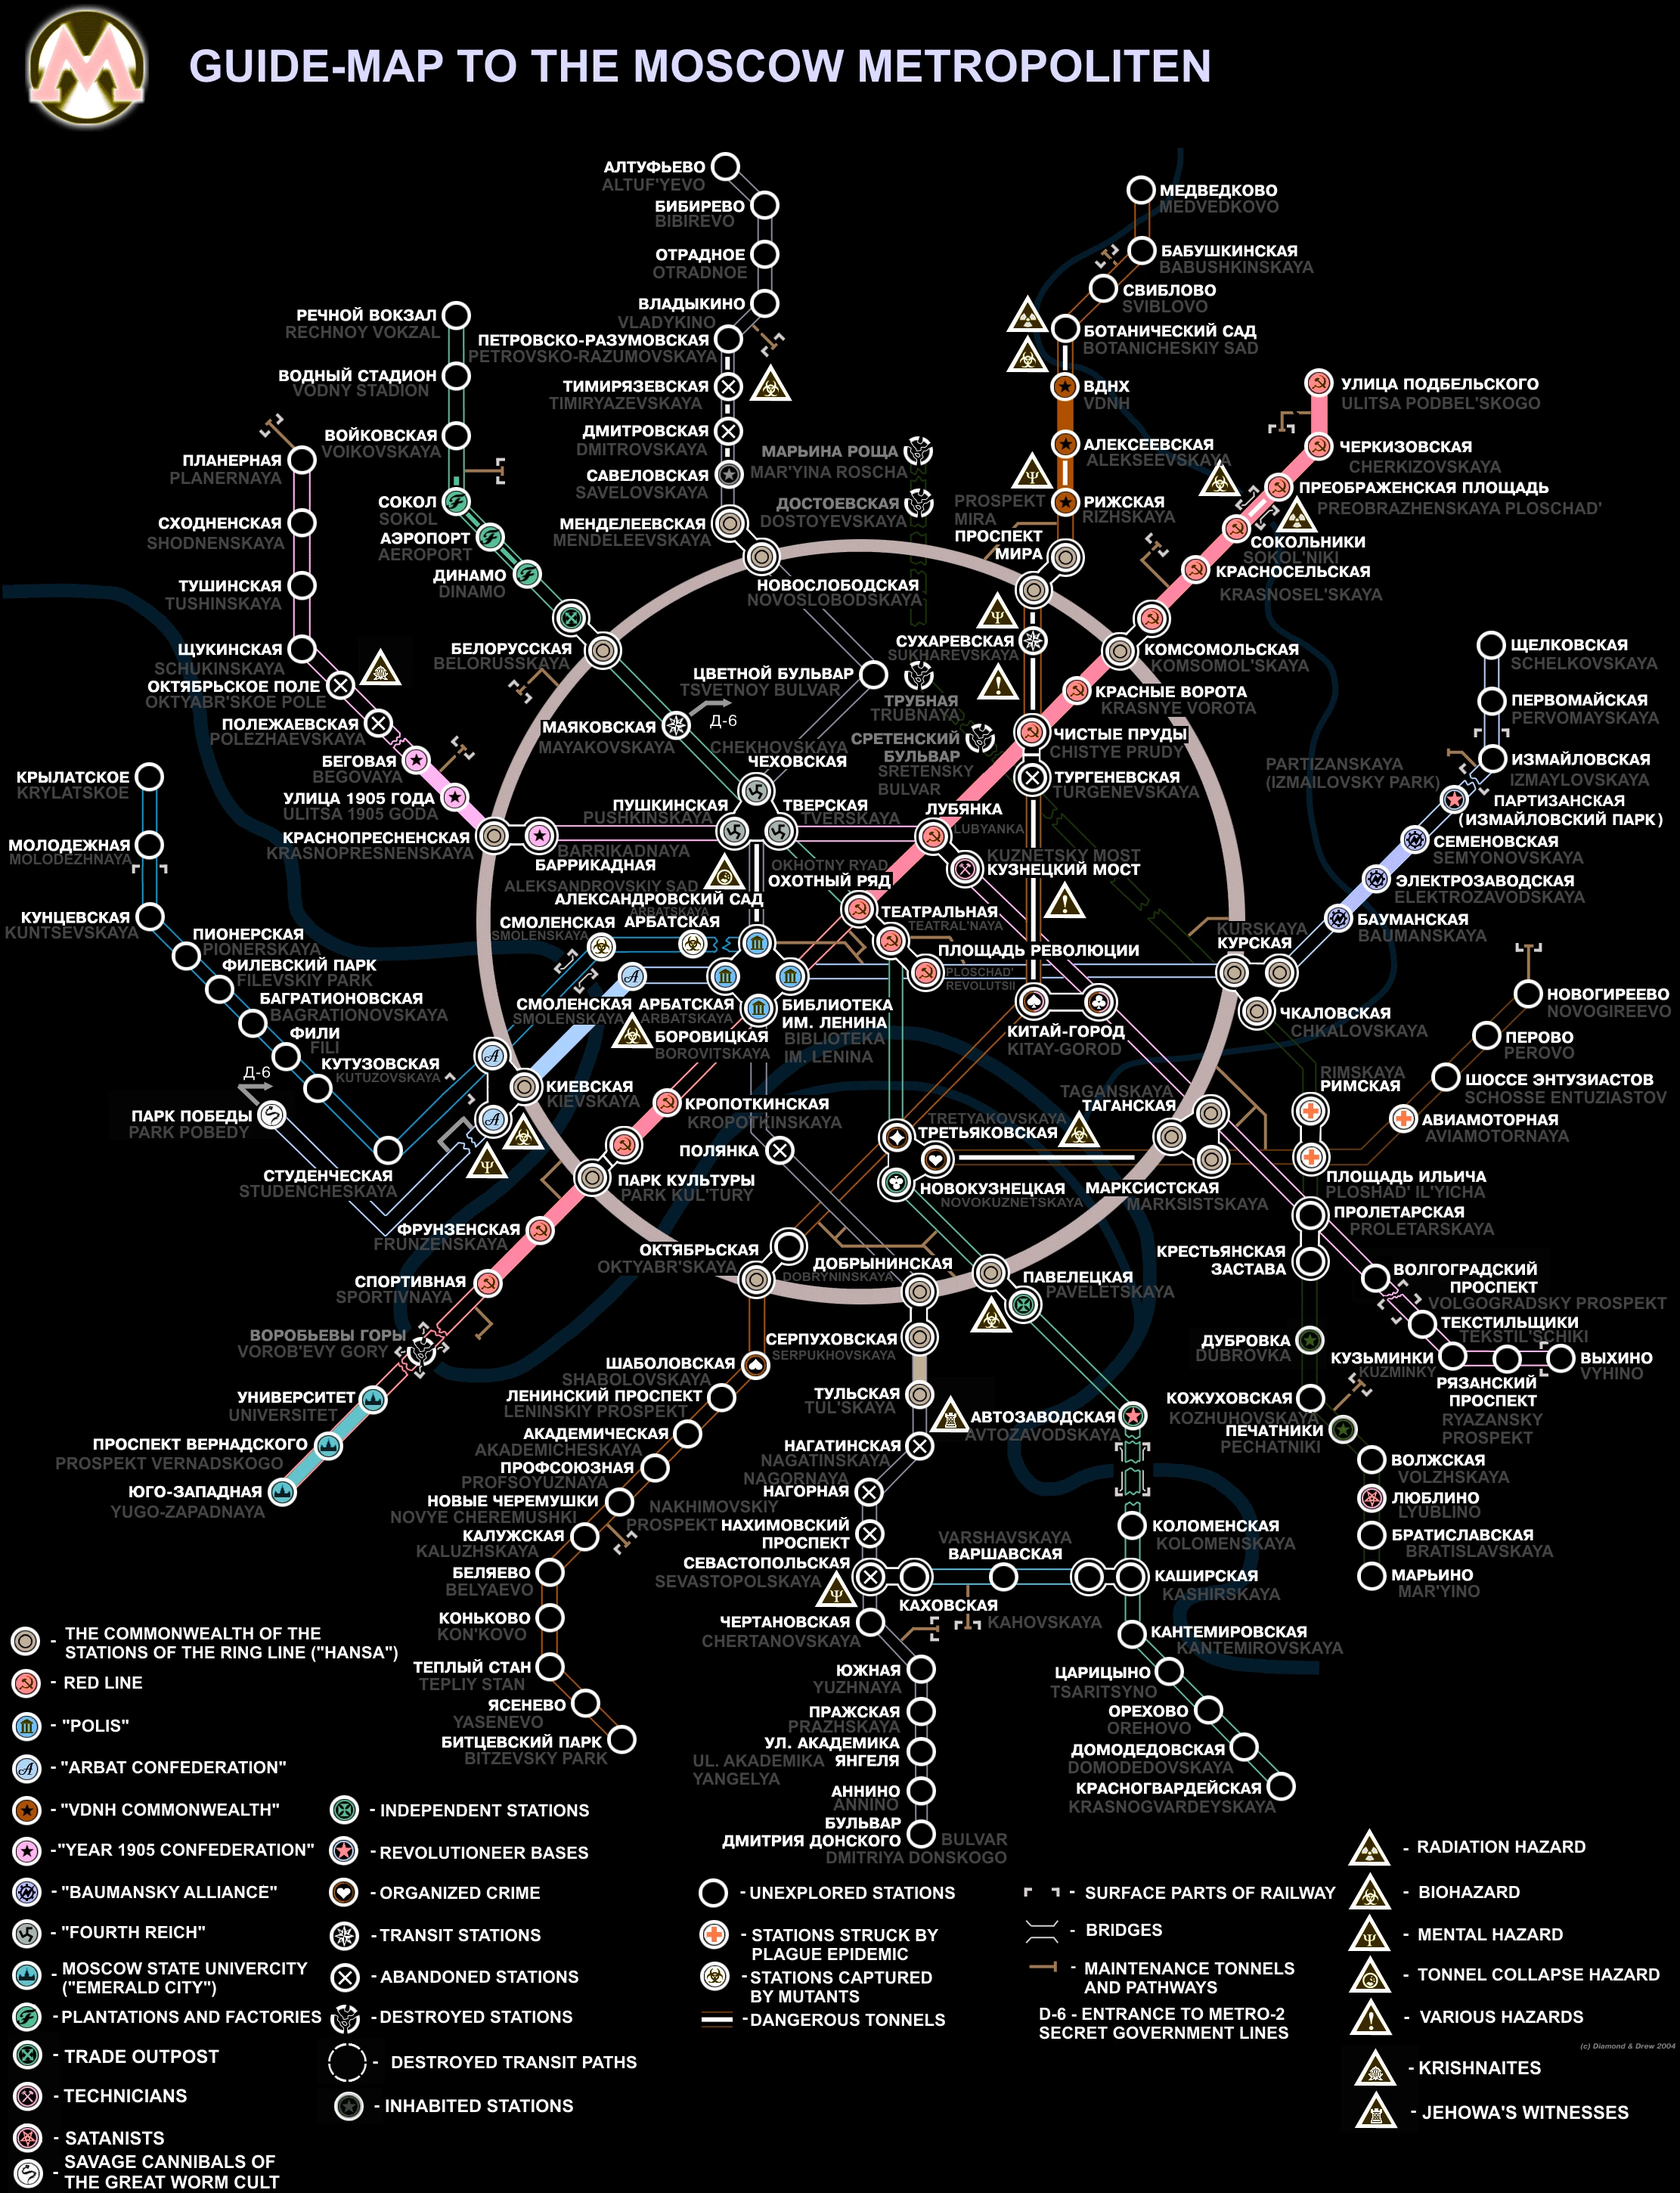
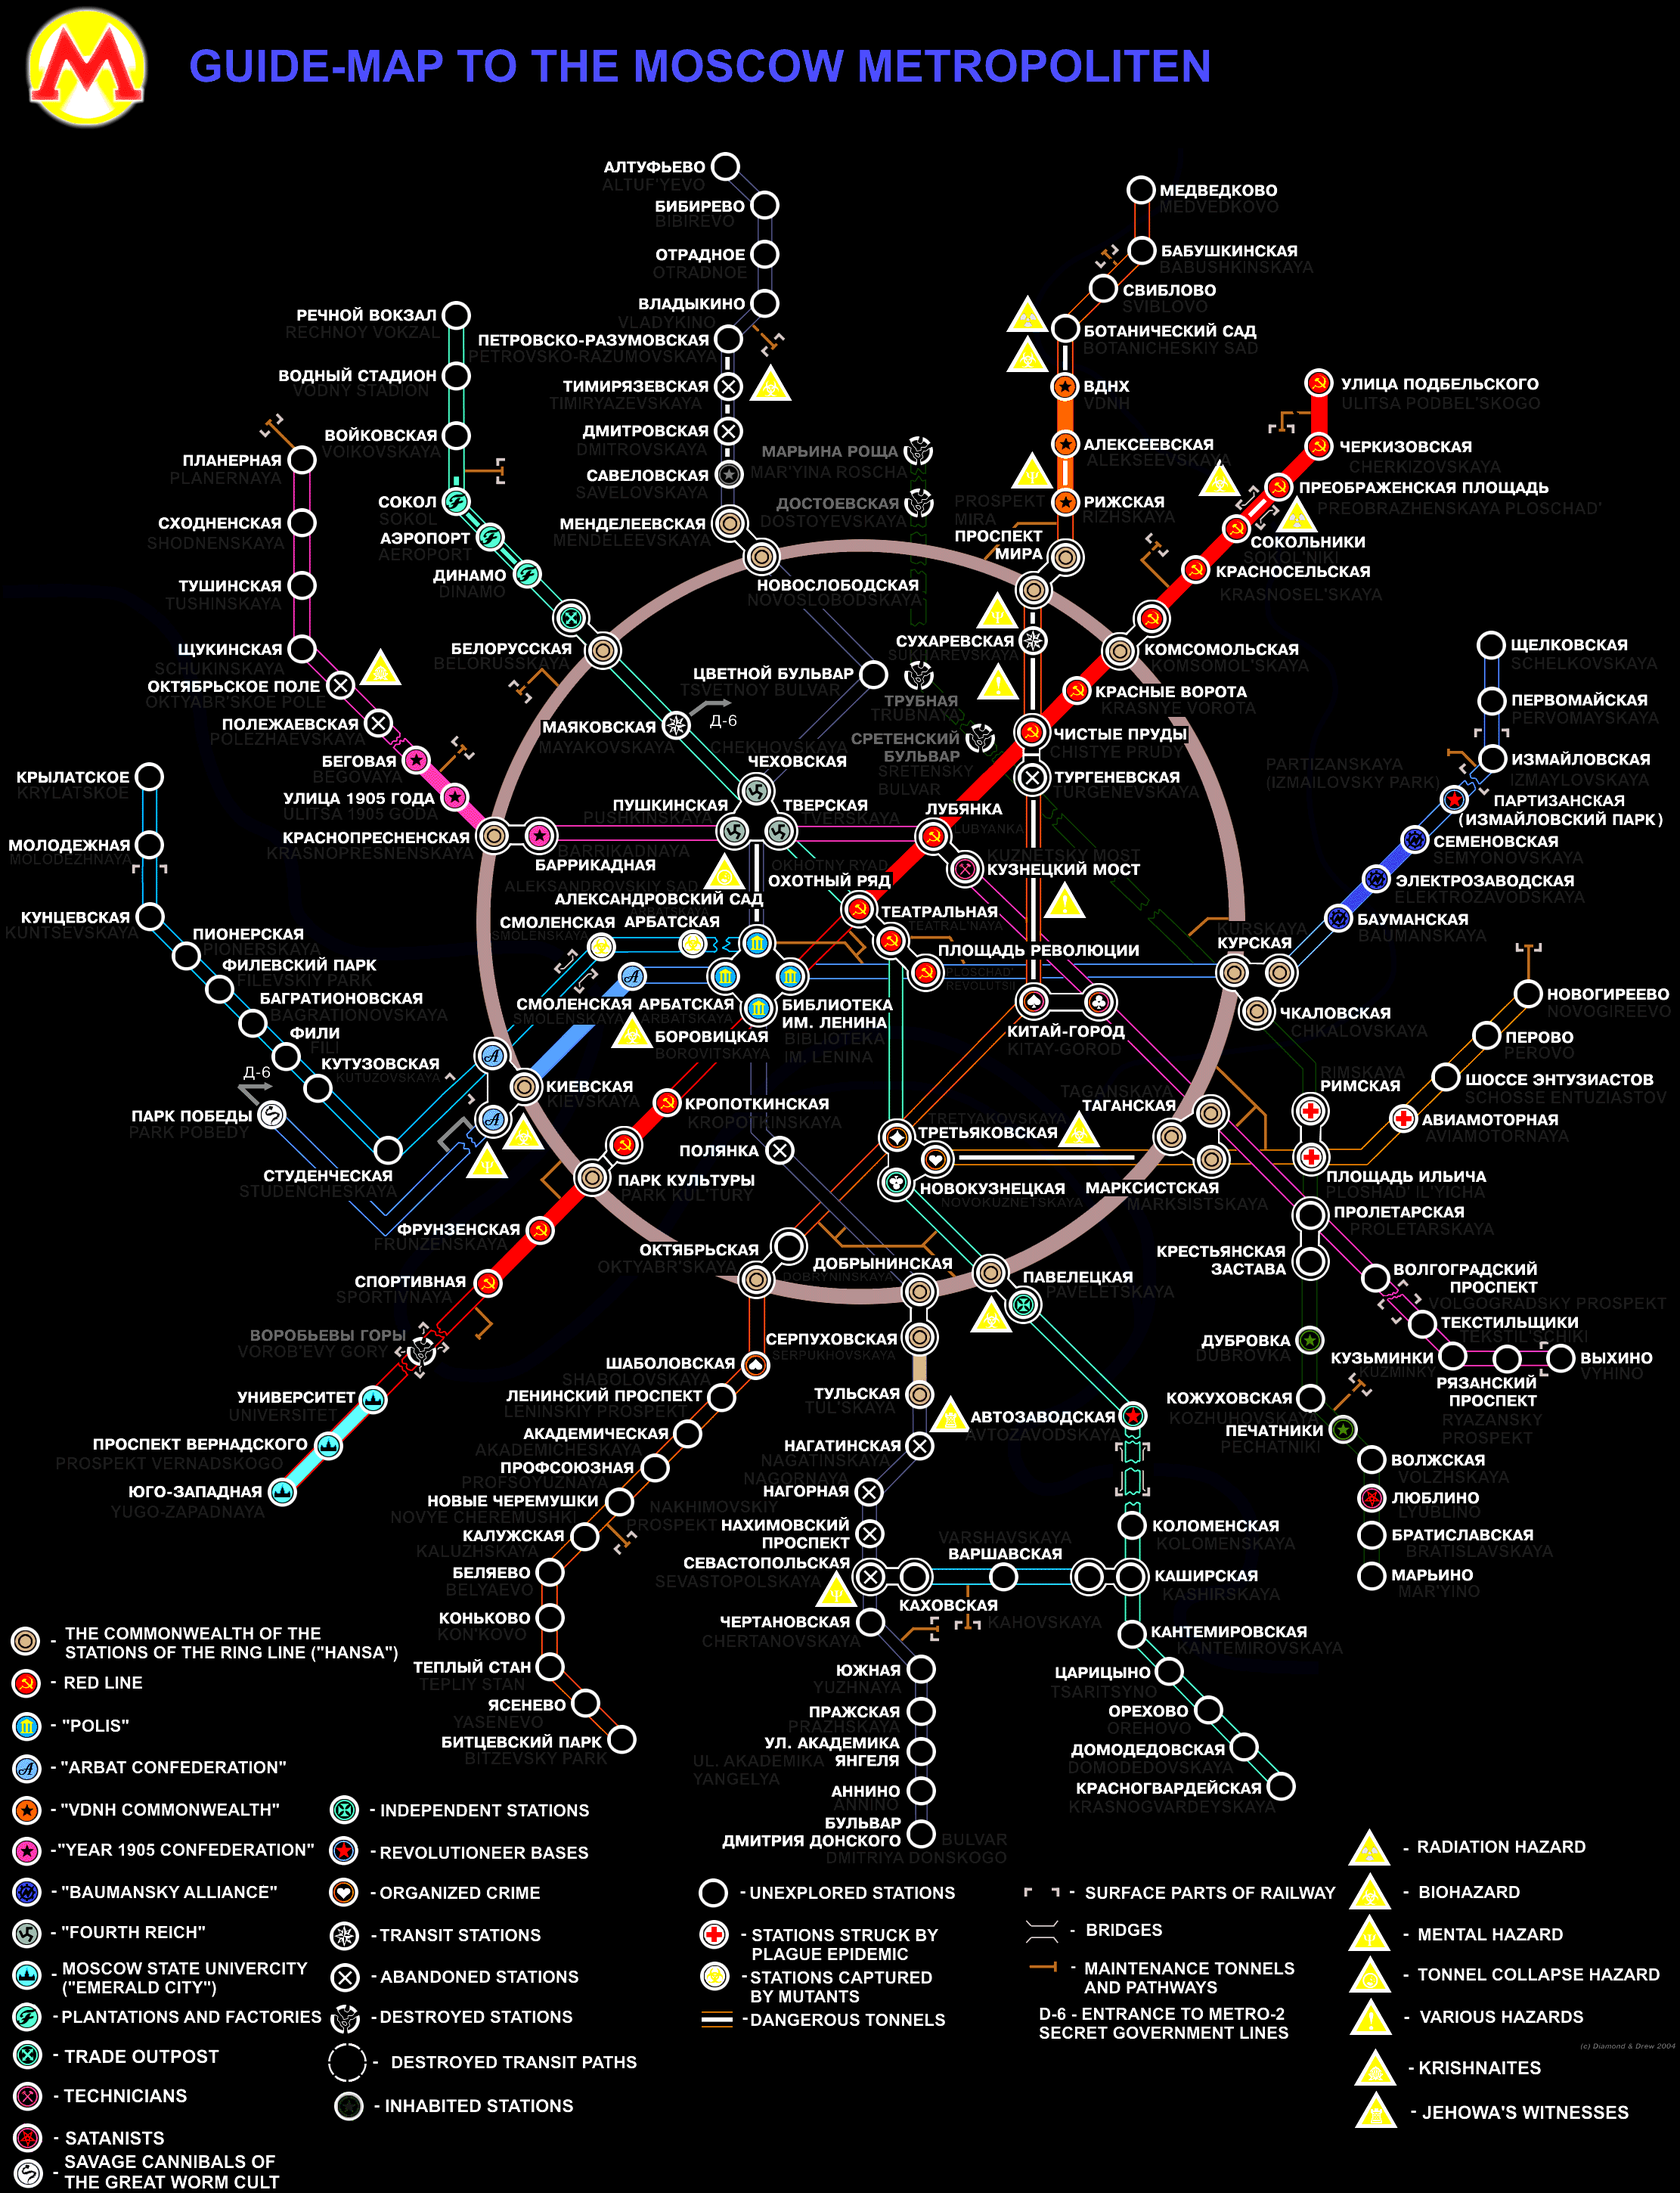
btn styles updated

diff --git a/src/assets/styles/main.css b/src/assets/styles/main.css
@@ -179,7 +179,9 @@ p {
   line-height: 1.15rem;
   letter-spacing: 0.04em;
   text-transform: uppercase;
-  padding: 0.8rem 0.4rem;
+  padding: 0.8rem 0;
+  margin-left: 2.2rem;
+  margin-right: 2.2rem;
   background: #f5b700;
   border: none;
   border-radius: 0;

diff --git a/src/views/HomeView.vue b/src/views/HomeView.vue
@@ -147,10 +147,9 @@ const destinations = [
 
 .hero-actions {
   display: flex;
-  gap: 2.2rem;
+  gap: 0.6rem;
   margin-top: 1.5rem;
   flex-wrap: wrap;
-  padding-left: 2rem;
 }
 
 .crossroad {

diff --git a/src/views/AboutView.vue b/src/views/AboutView.vue
@@ -228,8 +228,7 @@ const credits = [
 .repo-links {
   display: flex;
   flex-wrap: wrap;
-  gap: 2.2rem;
+  gap: 0.6rem;
   margin-top: 1rem;
-  padding-left: 2rem;
 }
 </style>
